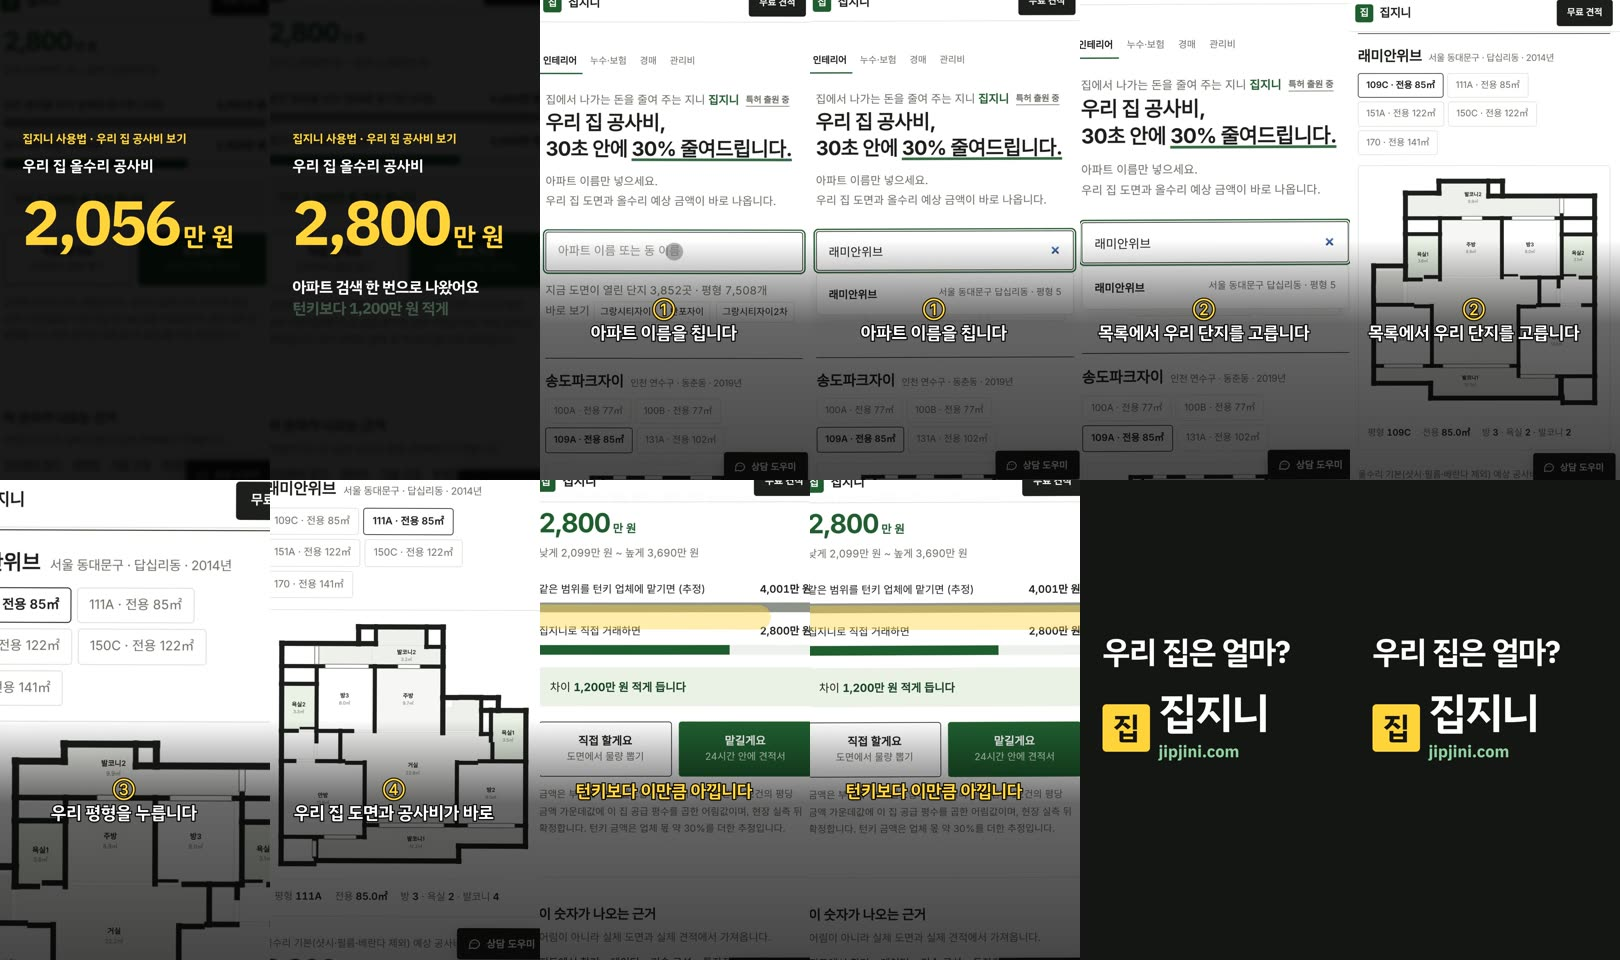
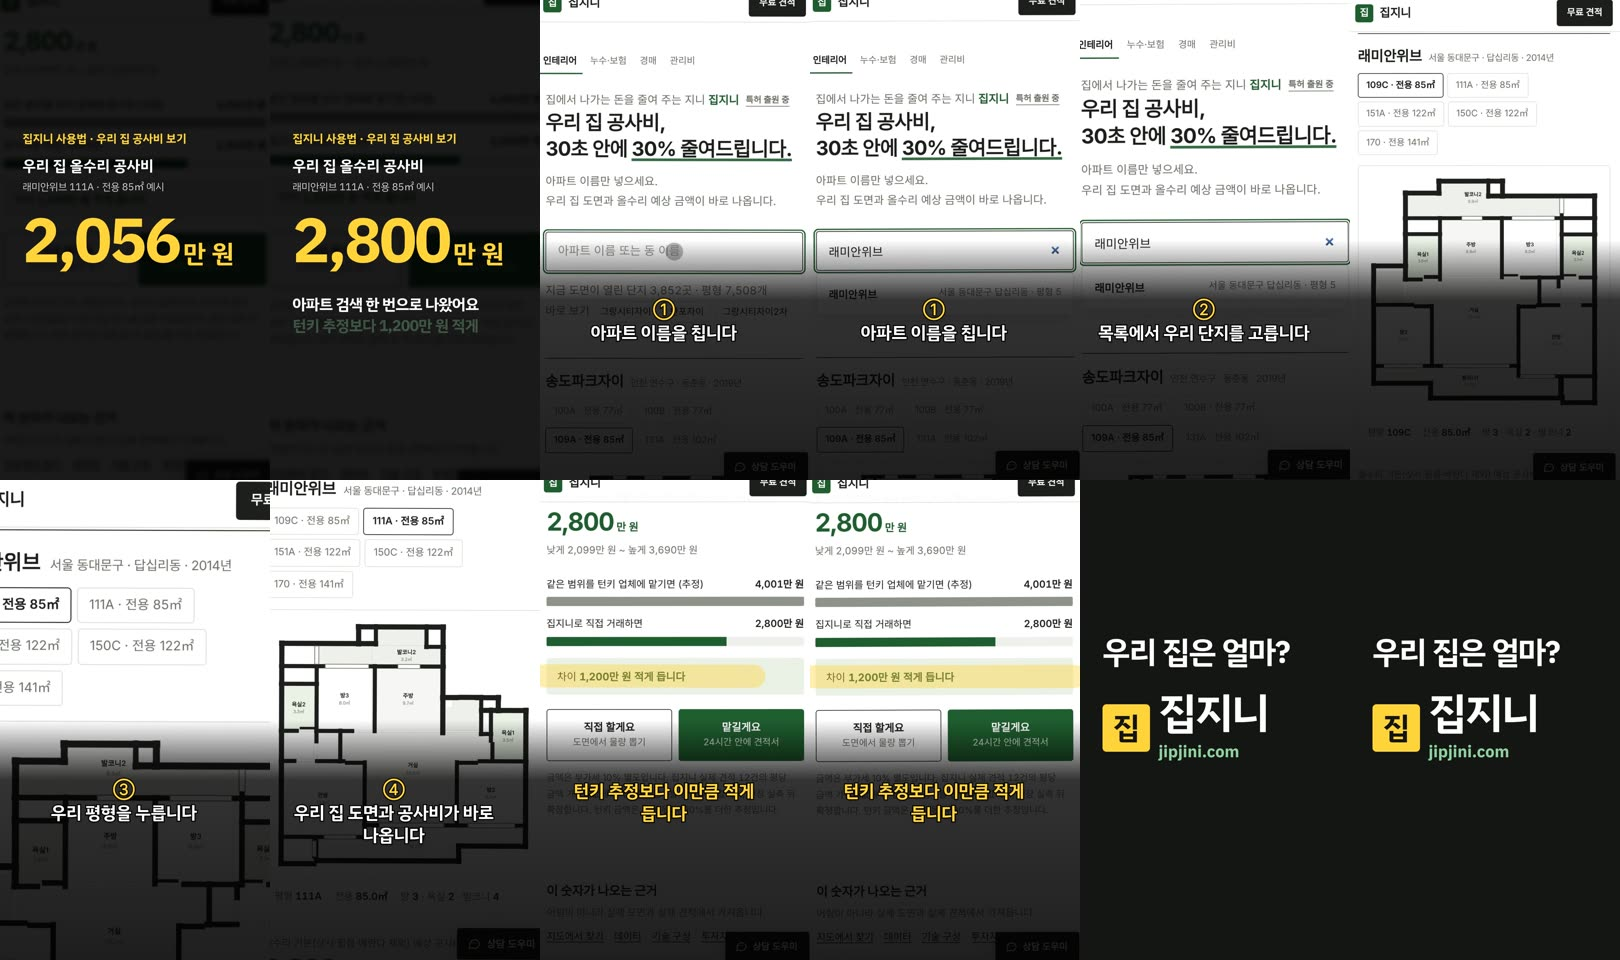
영상 검수 반영: 공사비 영상 「추정」·예시 표기, 결과 확대 제자리, 자막 띠 진하게, 묶음 검사 정규식 수정 (#405)
Claude-Session: https://claude.ai/code/session_01EWAutn6yu8RhtVwgyvFZah

diff --git a/tools/mk/video/src/Tut.tsx b/tools/mk/video/src/Tut.tsx
@@ -64,10 +64,11 @@ const Hook: React.FC<{d: TutData; f: number; bgImg: string}> = ({d, f, bgImg}) =
       const land = pop(f, 50, 3);
       return <AbsoluteFill>{dim(0.1)}{box(520, <>{label}
         <div style={{fontSize: 60, color: '#fff', fontWeight: 700, opacity: fade(f, 0)}}>우리 집 올수리 공사비</div>
+        <div style={{fontSize: 40, color: 'rgba(255,255,255,.8)', fontWeight: 500, marginTop: 6, opacity: fade(f, 0)}}>래미안위브 111A · 전용 85㎡ 예시</div>
         <div style={{display: 'flex', alignItems: 'baseline', gap: 16, transform: `scale(${1 + land * 0.06 - (f > 58 ? 0.06 : 0)})`, transformOrigin: 'left bottom'}}>
           <span style={{fontSize: 250, fontWeight: 700, color: m.acc, letterSpacing: -10, fontVariantNumeric: 'tabular-nums'}}>{n}</span>
           <span style={{fontSize: 100, fontWeight: 700, color: m.acc}}>만 원</span></div>
-        <div style={{marginTop: 30}}><Lines f={f} at={58} lines={['아파트 검색 한 번으로 나왔어요', '턴키보다 1,200만 원 적게']} size={62} color="#fff" last={LIME} gap={10} /></div></>)}
+        <div style={{marginTop: 30}}><Lines f={f} at={58} lines={['아파트 검색 한 번으로 나왔어요', '턴키 추정보다 1,200만 원 적게']} size={62} color="#fff" last={LIME} gap={10} /></div></>)}
       </AbsoluteFill>;
     }
     case 'taps': {
@@ -182,7 +183,7 @@ export const Tut: React.FC<{d: TutData}> = ({d}) => {
   const i = starts.findIndex((s, k) => f >= s && f < s + len(d.frames[k], m));
   const fr = i >= 0 ? d.frames[i] : null;
   let capIdx = -1;
-  if (i >= 0) for (let k = i; k >= 0; k--) if (d.frames[k].cap) {capIdx = k; break;}
+  if (i >= 0 && (d.frames[i].cap || d.frames[i].kind === 'type')) for (let k = i; k >= 0; k--) if (d.frames[k].cap) {capIdx = k; break;}
   const cap = capIdx >= 0 ? d.frames[capIdx] : null;
   let view = {z: 1, cx: 540, cy: 960};
   if (fr) {
@@ -277,7 +278,7 @@ export const Tut: React.FC<{d: TutData}> = ({d}) => {
       </div>
       {markEl}{tapEl}
       </div>
-      <div style={{position: 'absolute', left: 0, right: 0, bottom: 0, height: m.kind === 'list' ? 1200 : 960, background: 'linear-gradient(rgba(0,0,0,0), rgba(0,0,0,.6) 35%, rgba(0,0,0,.72))'}} />
+      <div style={{position: 'absolute', left: 0, right: 0, bottom: 0, height: m.kind === 'list' ? 1200 : 960, background: 'linear-gradient(rgba(0,0,0,0), rgba(0,0,0,.8) 25%, rgba(0,0,0,.88))'}} />
       {(m.kind === 'taps' || m.kind === 'challenge') && <div style={{position: 'absolute', left: 0, right: 0, top: 0, height: 460, background: 'linear-gradient(rgba(0,0,0,.5), rgba(0,0,0,.4) 60%, rgba(0,0,0,0))'}} />}
       {capEl}{side}
     </AbsoluteFill>}

diff --git a/tools/mk/video/src/fx.ts b/tools/mk/video/src/fx.ts
@@ -47,5 +47,6 @@ export const musicVol = (x: number, total: number, hits: number[], base = 0.24) 
   return v * fadeIn * fadeOut;
 };
 // 결과 순간 화면: 살짝 당겨 잡기(4프레임), 놀람 편은 8프레임만 흔든다
-export const punchZ = (lf: number, punch: number) => lf < 0 ? 1 : 1 + (punch - 1) * Math.min(1, lf / 4);
+// 4프레임에 치고 들어갔다가 18프레임까지 제자리로(계속 확대해 두면 화면 좌우 글자가 잘린다)
+export const punchZ = (lf: number, punch: number) => lf < 0 || lf > 18 ? 1 : 1 + (punch - 1) * (lf < 4 ? lf / 4 : 1 - (lf - 4) / 14);
 export const hitShake = (lf: number) => lf < 0 || lf > 8 ? '' : ` translate(${Math.sin(lf * 2.6) * (8 - lf) * 1.6}px, ${Math.cos(lf * 3.1) * (8 - lf) * 1.2}px)`;

diff --git a/tools/mk/video/tools/review/check.py b/tools/mk/video/tools/review/check.py
@@ -101,7 +101,7 @@ def source_checks(src, kind):
 def batch_checks(fmt):
     """묶음 검사(대표 지적 「왜 다 똑같은 폼?」 「동그라미만」 「하나만 전체에 다 적용」): 형식·표시·곡이 고루 쓰였는지"""
     out = []; s = open(fmt, encoding='utf8').read(); from collections import Counter
-    kinds = re.findall(r"kind: '([a-z]+)'", s); music = Counter(re.findall(r"music: '([a-z_]+)'", s))
+    kinds = re.findall(r"\{kind: '([a-z]+)'", s); music = Counter(re.findall(r"music: '([a-z_]+)'", s))
     dup = [k for k, c in Counter(kinds).items() if c > 1]
     if dup: out.append(('형식 다양성', '수정', '같은 형식이 두 편 이상: ' + ', '.join(dup), '', '편마다 갈고리 형식을 다르게'))
     over = [f'{k}({c}편)' for k, c in music.items() if c > 3]
